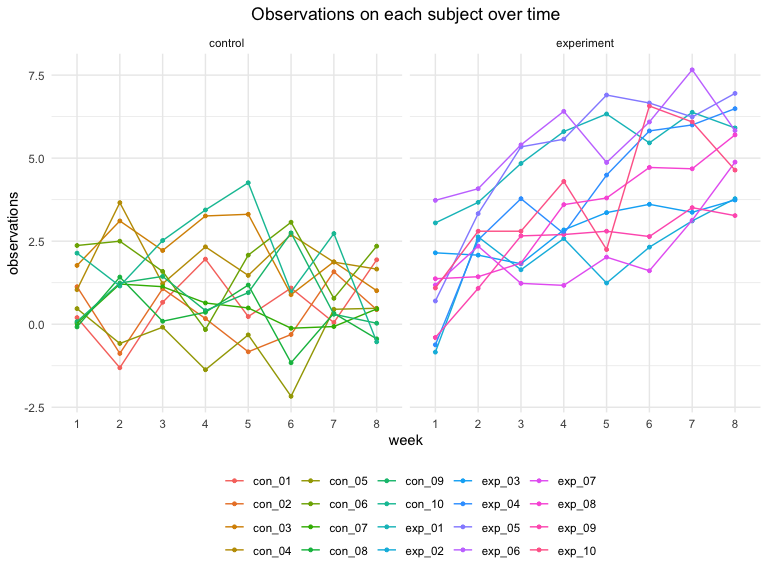
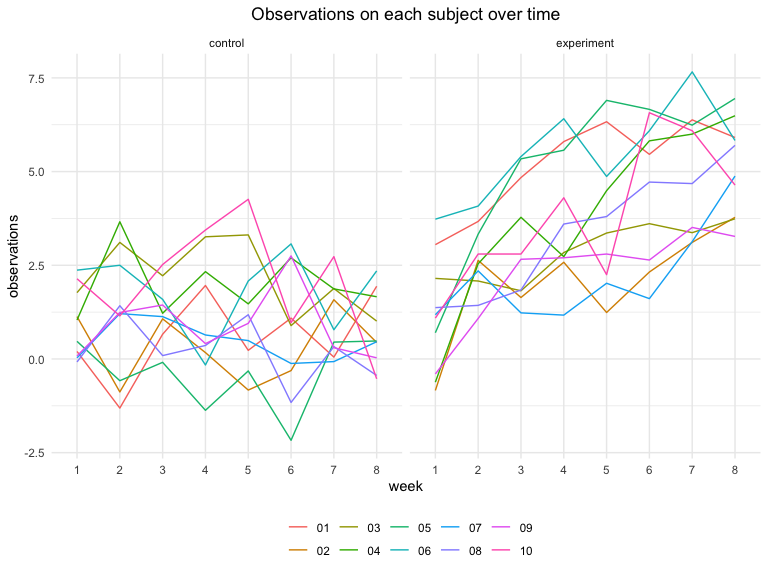
problem 3

diff --git a/p8105_hw5_xj2249.md b/p8105_hw5_xj2249.md
@@ -18,15 +18,30 @@ replace_missing <- function(vector) {
                 replace_na(vector,mean(vector,na.rm = TRUE))
         } else if (is.character(vector)) {
                 replace_na(vector,"virginica")
+        } else  {
+                stop("Error: neither numeric nor character")
         }
 }
 # apply my 'replace_missing' function
-iris_without_missing <-
-        iris_with_missing %>% 
+iris_with_missing %>% 
         map(replace_missing) %>% 
-        bind_cols() %>% 
-        janitor::clean_names() 
+        bind_cols() 
 ```
+
+    ## # A tibble: 150 x 5
+    ##    Sepal.Length Sepal.Width Petal.Length Petal.Width Species
+    ##           <dbl>       <dbl>        <dbl>       <dbl> <chr>  
+    ##  1         5.1          3.5         1.4         0.2  setosa 
+    ##  2         4.9          3           1.4         0.2  setosa 
+    ##  3         4.7          3.2         1.3         0.2  setosa 
+    ##  4         4.6          3.1         1.5         1.19 setosa 
+    ##  5         5            3.6         1.4         0.2  setosa 
+    ##  6         5.4          3.9         1.7         0.4  setosa 
+    ##  7         5.82         3.4         1.4         0.3  setosa 
+    ##  8         5            3.4         1.5         0.2  setosa 
+    ##  9         4.4          2.9         1.4         0.2  setosa 
+    ## 10         4.9          3.1         3.77        0.1  setosa 
+    ## # … with 140 more rows
 
 # Problem2
 
@@ -34,9 +49,8 @@ iris_without_missing <-
 study_df <- 
         tibble(file_names = list.files("./data"),
                path = str_c("./data/", file_names)) %>%
-        mutate(data = map(path, read_csv)
-        ) %>% 
-        unnest() %>% 
+        mutate(data = map(path, read_csv)) %>% 
+        unnest(data) %>% 
         select(-path) %>% 
         pivot_longer(
                 -file_names,
@@ -44,27 +58,39 @@ study_df <-
                 names_prefix = "week_",
                 values_to = "observations"
                 ) %>% 
-        mutate(file_names = str_remove(file_names,".csv"),
-               week = factor(week)) 
+        separate(file_names,into = c("group","id"), sep = "_") %>% 
+        mutate(
+                id = str_remove(id,".csv"),
+                week = factor(week)) 
+head(study_df) %>% knitr::kable()
 ```
 
-## spaghetti plot
+| group | id | week | observations |
+| :---- | :- | :--- | -----------: |
+| con   | 01 | 1    |         0.20 |
+| con   | 01 | 2    |       \-1.31 |
+| con   | 01 | 3    |         0.66 |
+| con   | 01 | 4    |         1.96 |
+| con   | 01 | 5    |         0.23 |
+| con   | 01 | 6    |         1.09 |
+
+## Spaghetti plot
 
 ``` r
 study_df %>% 
-        mutate(group = str_sub(file_names,1,3),
-               group = factor(group)) %>% 
-        ggplot(aes(x = week, y = observations, color = file_names)) +
-        geom_point(size = 1) +
-        geom_line(aes(group = file_names)) +
+        ggplot(aes(x = week, y = observations)) +
+        geom_line(aes(group = id,color = id)) +
         facet_grid(.~ group,labeller = as_labeller(c("con" =  "control", "exp" = "experiment"))) +
-        labs(title = "Observations on each subject over time") + 
-        theme(legend.position = "bottom")
+        labs(title = "Observations on each subject over time") 
 ```
 
 <img src="p8105_hw5_xj2249_files/figure-gfm/unnamed-chunk-2-1.png" width="90%" />
 
-comment on differences between groups.
+As we can see, firstly, experiment group has higher observations
+overally, compared with control group. Secondly, two groups manifest a
+different temporal trend. in control group, there’s a fluctuation of
+obsevations over time, while in experiment group, observations show an
+increased trend with time passing by.
 
 # Problem3
 
@@ -80,7 +106,6 @@ lm_regression <- function(n = 30, beta0 = 2, beta1 = 0 ){
                 beta1_hat = coef(ls_fit)[2],
                 p_value = 
                         ls_fit %>% 
-                        summary() %>% 
                         broom::tidy() %>% 
                         filter(term == "x") %>% 
                         pull(p.value)
@@ -99,7 +124,7 @@ sim_results <-
         mutate(beta1 = factor(beta1))
 ```
 
-## association between effect size and power
+## Association between effect size and power
 
 ``` r
 sim_results %>% 
@@ -117,7 +142,10 @@ sim_results %>%
 
 <img src="p8105_hw5_xj2249_files/figure-gfm/unnamed-chunk-5-1.png" width="90%" />
 
-## average estimate of \(\hat{\beta_1}\) and true \(\beta_1\) in all and only null-rejected sample
+As the plot shows, with the increase of size effect, the power of test
+increases.
+
+## Average estimate of ![\\hat{\\beta\_1}](https://latex.codecogs.com/png.latex?%5Chat%7B%5Cbeta_1%7D "\\hat{\\beta_1}") and true ![\\beta\_1](https://latex.codecogs.com/png.latex?%5Cbeta_1 "\\beta_1") in all and only null-rejected sample
 
 ``` r
 null_rejected_df <- 
@@ -139,18 +167,25 @@ sim_results %>%
 
 <img src="p8105_hw5_xj2249_files/figure-gfm/unnamed-chunk-6-1.png" width="90%" />
 
-The sample average of \(\hat{\beta_1}\) across tests for which the null
-is rejected get closer and closer to the true value of \(\beta_1\) with
-the \(\beta_1\) (effect size) increases.
+The sample average of
+![\\hat{\\beta\_1}](https://latex.codecogs.com/png.latex?%5Chat%7B%5Cbeta_1%7D
+"\\hat{\\beta_1}") across tests for which the null is rejected get
+closer and closer to the true value of
+![\\beta\_1](https://latex.codecogs.com/png.latex?%5Cbeta_1 "\\beta_1")
+with the ![\\beta\_1](https://latex.codecogs.com/png.latex?%5Cbeta_1
+"\\beta_1") (effect size) increases.
 
 When the effect size is small, the power of test is relatively low and
-therefore, to be rejected, a \(\hat{\beta_1}\) need to be further away
-from null(more extreme) than the avarage \(\hat{\beta_1}\) or the true
-\(\beta_1\), which explains why in null-rejected sample, the avarage is
-higher. And, with the increase of effect size, as we can see in Fig1,
-the power of test increase also, and we can easily detect the
-difference. Or in other word, the effect size is large enough itself, so
-as that \(\hat{\beta_1}\) doesn’t need to be more extreme to be
-rejected.
-
-beta
+therefore, to be rejected, a
+![\\hat{\\beta\_1}](https://latex.codecogs.com/png.latex?%5Chat%7B%5Cbeta_1%7D
+"\\hat{\\beta_1}") need to be further away from null(more extreme) than
+the avarage
+![\\hat{\\beta\_1}](https://latex.codecogs.com/png.latex?%5Chat%7B%5Cbeta_1%7D
+"\\hat{\\beta_1}") or the true
+![\\beta\_1](https://latex.codecogs.com/png.latex?%5Cbeta_1 "\\beta_1"),
+which explains why in null-rejected sample, the avarage is higher. And,
+with the increase of effect size, as we can see in Fig1, the power of
+test increase also, and we can easily detect the difference. Or in other
+word, the effect size is large enough itself, so as that
+![\\hat{\\beta\_1}](https://latex.codecogs.com/png.latex?%5Chat%7B%5Cbeta_1%7D
+"\\hat{\\beta_1}") doesn’t need to be more extreme to be rejected.
